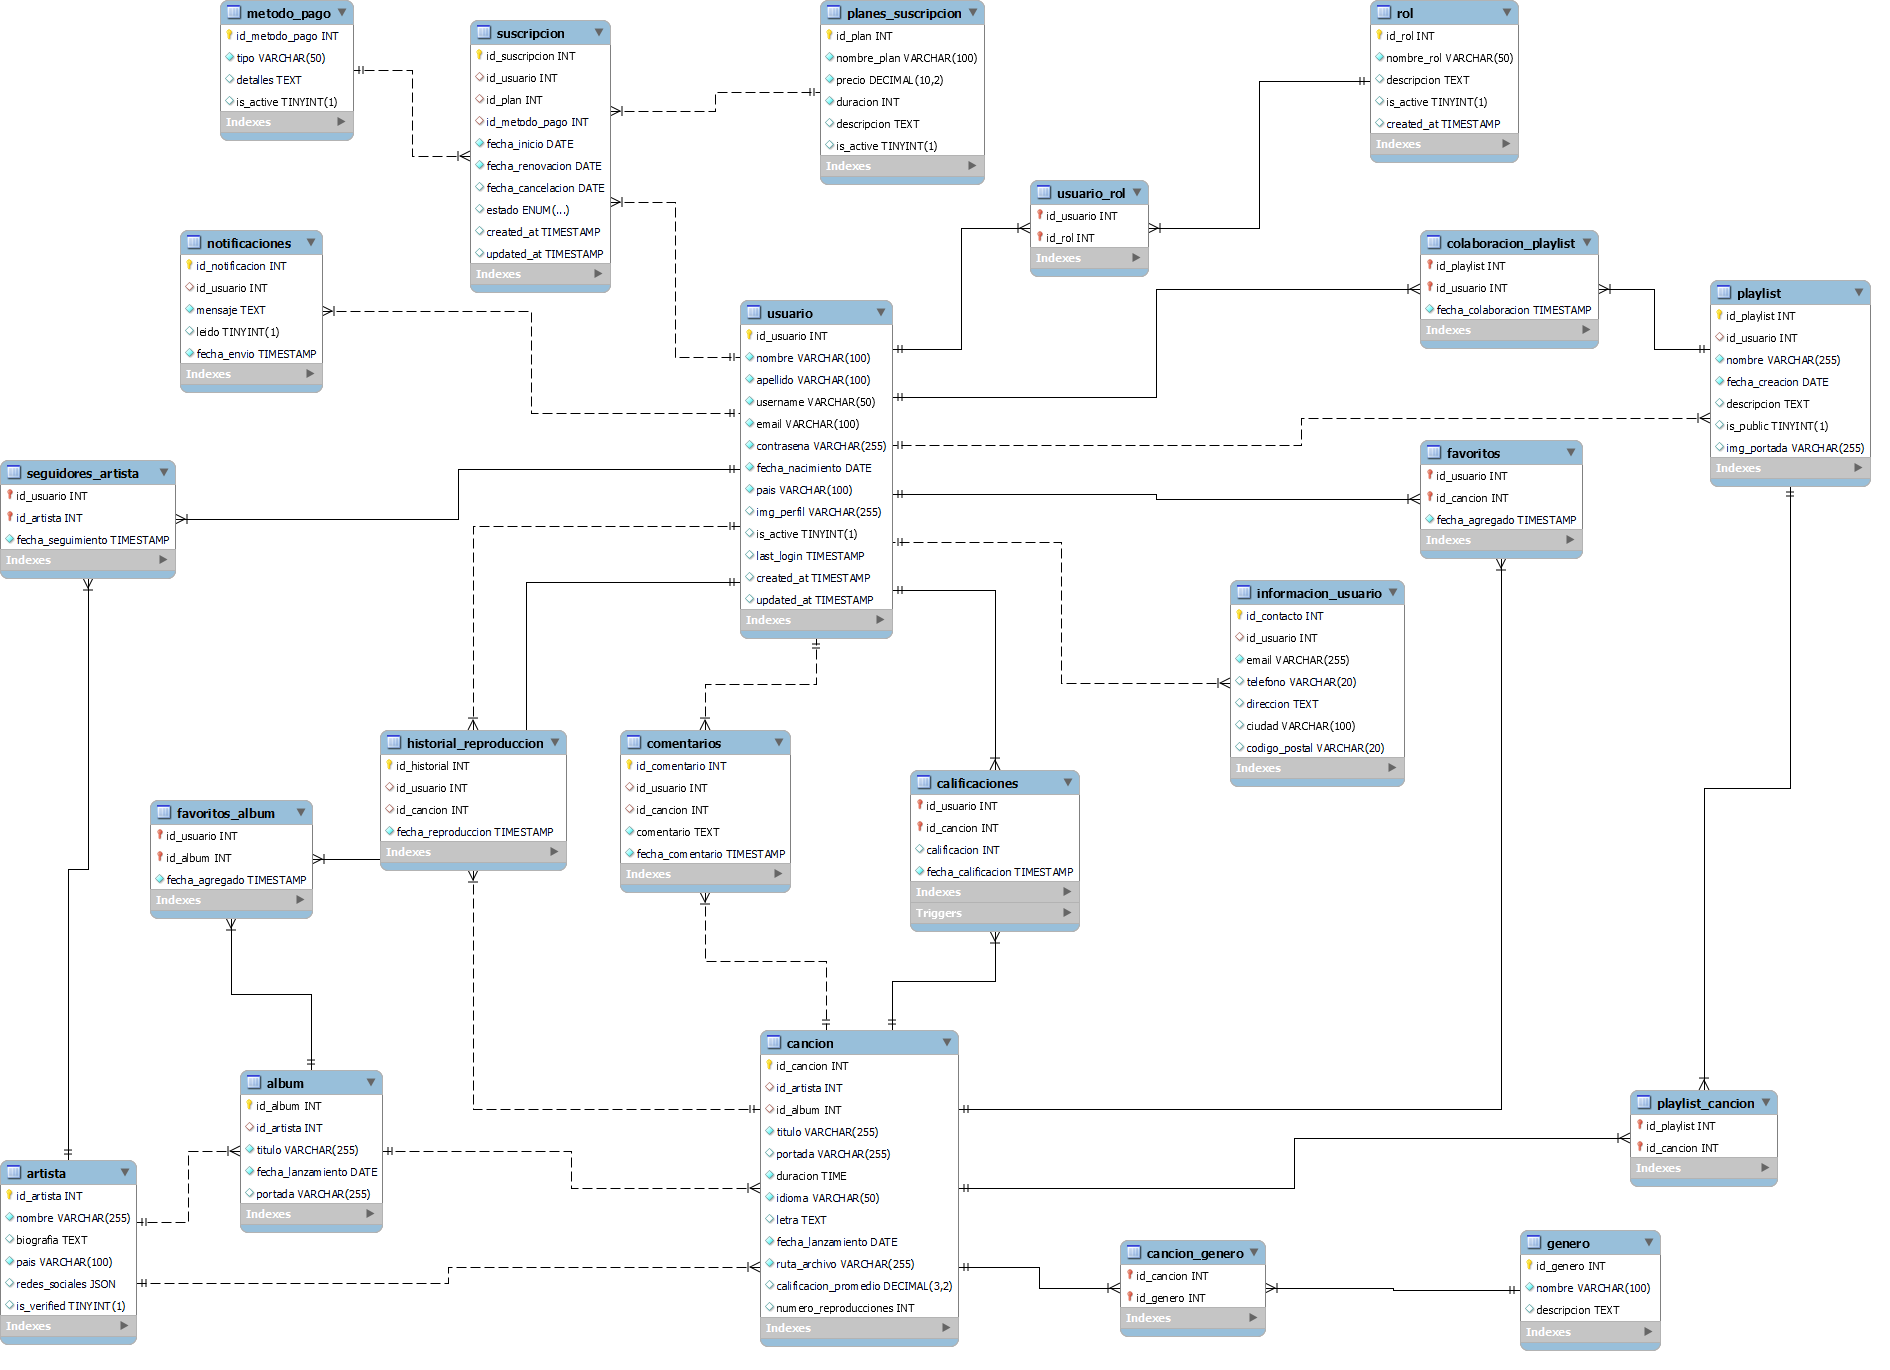
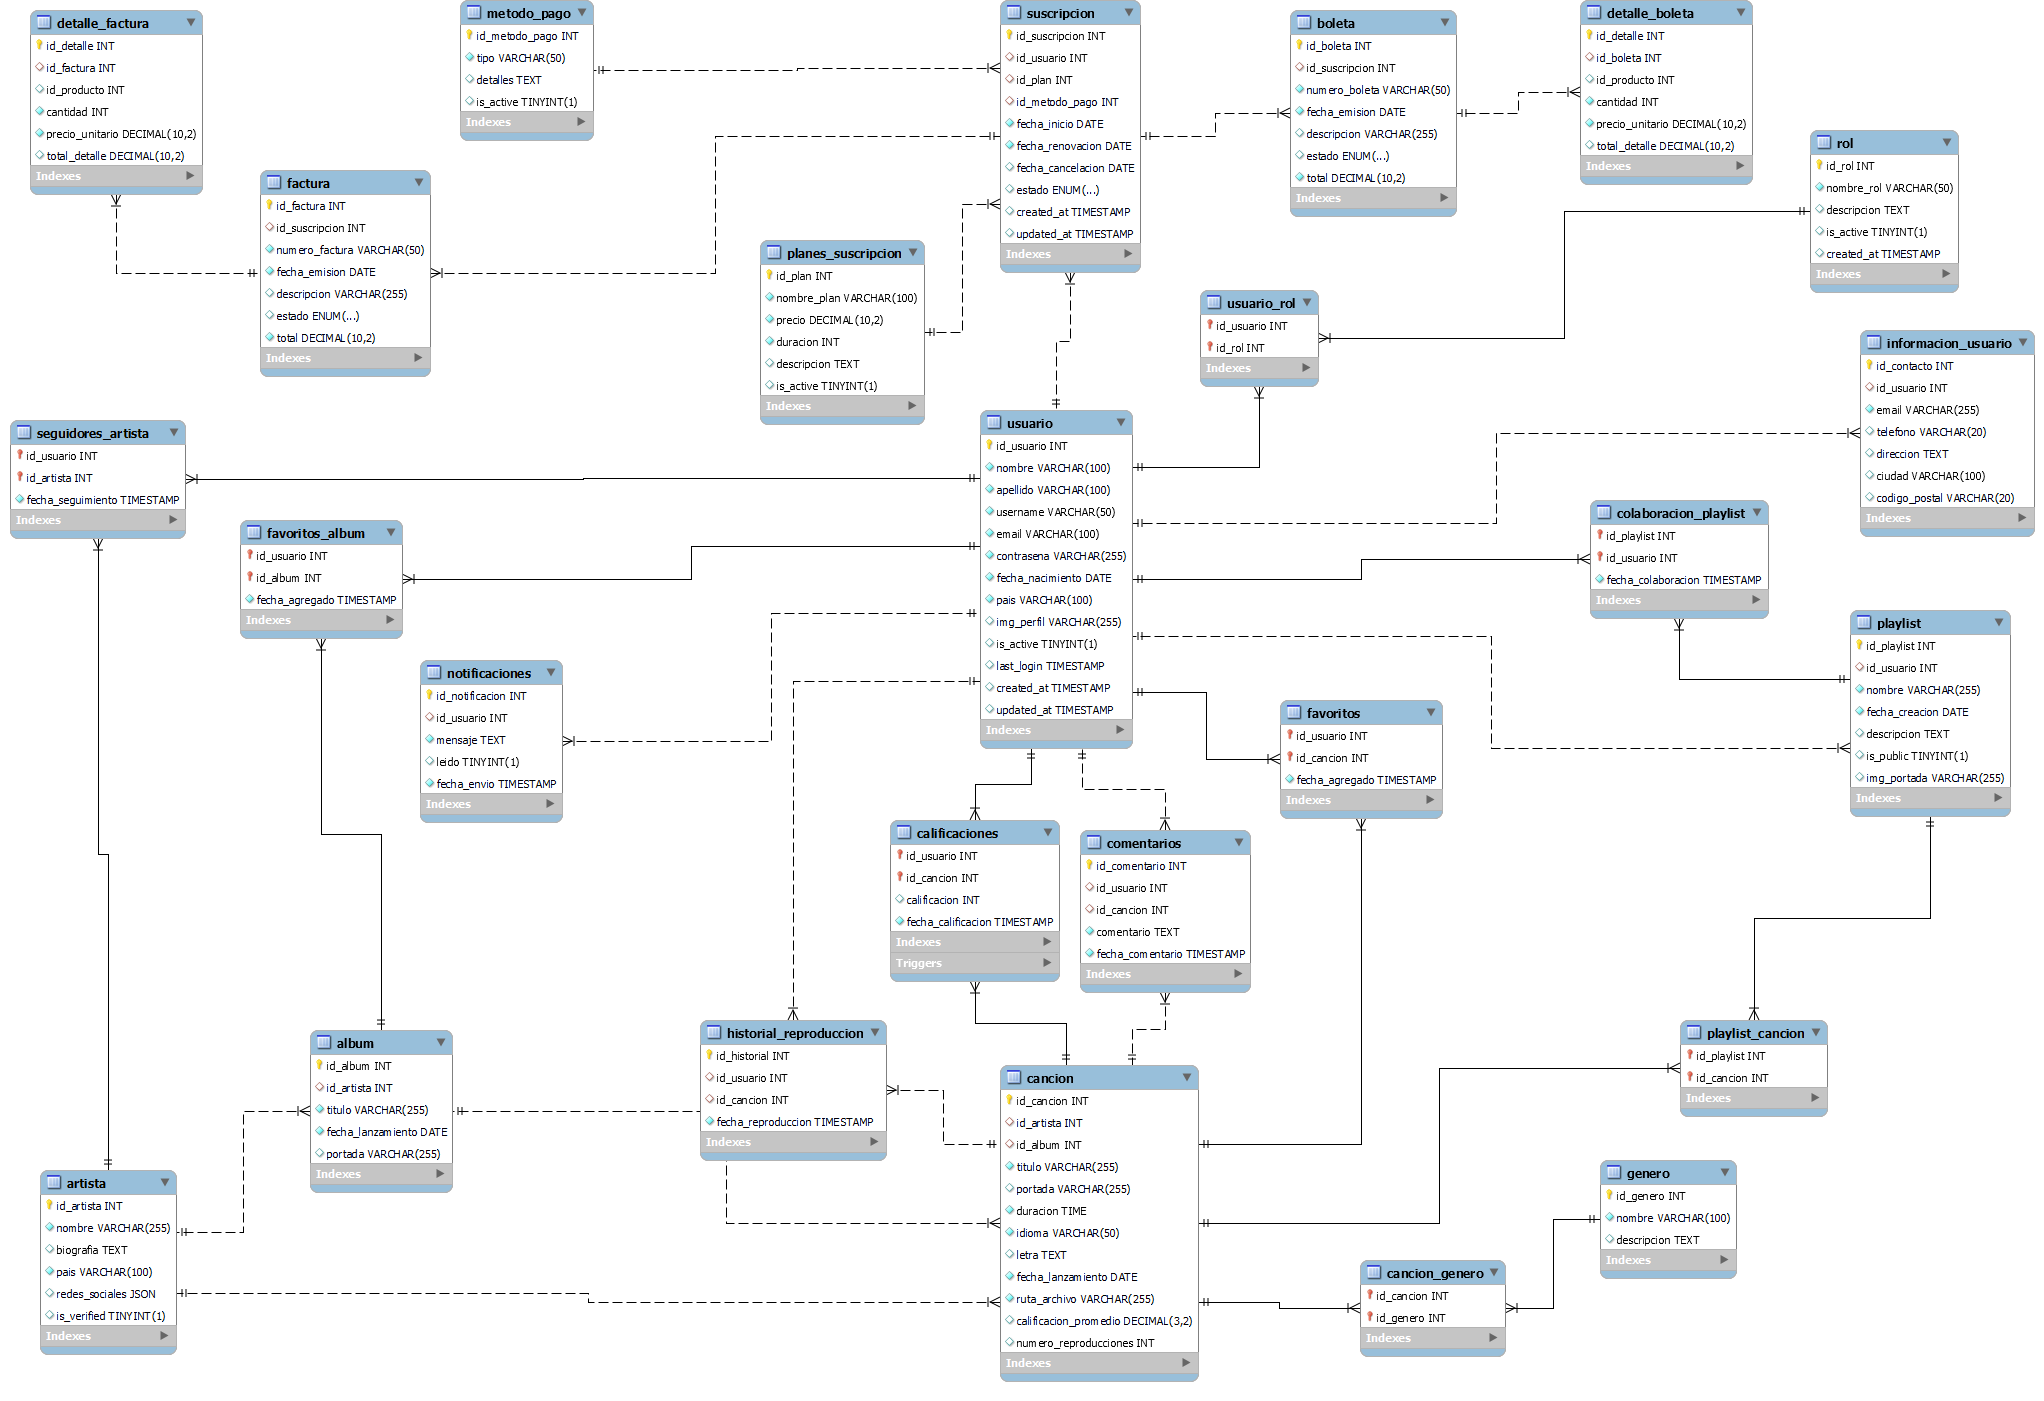
feat: Se añadio las tablas boleta y factura junto con sus entidades, repositorio y diagrama de entidad relacion actualizados (Issue #10)

diff --git a/src/main/java/com/euphony/streaming/entity/FacturaEntity.java b/src/main/java/com/euphony/streaming/entity/FacturaEntity.java
@@ -1,0 +1,56 @@
+package com.euphony.streaming.entity;
+
+
+import com.euphony.streaming.audit.BaseAudit;
+import jakarta.persistence.*;
+import lombok.Getter;
+import lombok.NoArgsConstructor;
+import lombok.Setter;
+
+import java.math.BigDecimal;
+import java.time.LocalDateTime;
+
+@Getter
+@Setter
+@NoArgsConstructor
+@Entity
+@Table(name = "FACTURA")
+public class FacturaEntity extends BaseAudit {
+
+    @Id
+    @GeneratedValue(strategy = GenerationType.IDENTITY)
+    @Column(name = "id_factura")
+    private Long idFactura;
+
+    @ManyToOne
+    @JoinColumn(name = "id_usuario", nullable = false)
+    private UsuarioEntity usuario;
+
+    @ManyToOne
+    @JoinColumn(name = "id_suscripcion", nullable = true)
+    private SuscripcionEntity suscripcion;
+
+    @ManyToOne
+    @JoinColumn(name = "id_metodo_pago", nullable = false)
+    private MetodoPagoEntity metodoPago;
+
+    @Column(name = "numero_factura", unique = true, nullable = false, length = 20)
+    private String numeroFactura;
+
+    @Column(name = "fecha_emision", nullable = false)
+    private LocalDateTime fechaEmision;
+
+    @Column(name = "monto_total", nullable = false)
+    private BigDecimal montoTotal;
+
+    @Column(name = "impuesto", nullable = false)
+    private BigDecimal impuesto;
+
+    @Enumerated(EnumType.STRING)
+    @Column(name = "estado", nullable = false)
+    private EstadoFactura estado = EstadoFactura.PENDIENTE;
+
+    public enum EstadoFactura {
+        PAGADA, PENDIENTE, ANULADA
+    }
+}

diff --git a/src/main/java/com/euphony/streaming/entity/BoletaEntity.java b/src/main/java/com/euphony/streaming/entity/BoletaEntity.java
@@ -1,0 +1,53 @@
+package com.euphony.streaming.entity;
+
+import com.euphony.streaming.audit.BaseAudit;
+import jakarta.persistence.*;
+import lombok.Getter;
+import lombok.NoArgsConstructor;
+import lombok.Setter;
+
+import java.math.BigDecimal;
+import java.time.LocalDate;
+import java.time.LocalDateTime;
+
+@Getter
+@Setter
+@NoArgsConstructor
+@Entity
+@Table(name = "BOLETA")
+public class BoletaEntity extends BaseAudit {
+
+    @Id
+    @GeneratedValue(strategy = GenerationType.IDENTITY)
+    @Column(name = "id_boleta")
+    private Long idBoleta;
+
+    @ManyToOne
+    @JoinColumn(name = "id_usuario", nullable = false)
+    private UsuarioEntity usuario;
+
+    @ManyToOne
+    @JoinColumn(name = "id_suscripcion", nullable = true)
+    private SuscripcionEntity suscripcion;
+
+    @ManyToOne
+    @JoinColumn(name = "id_metodo_pago", nullable = false)
+    private MetodoPagoEntity metodoPago;
+
+    @Column(name = "numero_boleta", unique = true, nullable = false, length = 20)
+    private String numeroBoleta;
+
+    @Column(name = "fecha_emision", nullable = false)
+    private LocalDateTime fechaEmision;
+
+    @Column(name = "monto_total", nullable = false)
+    private BigDecimal montoTotal;
+
+    @Enumerated(EnumType.STRING)
+    @Column(name = "estado", nullable = false)
+    private EstadoBoleta estado = EstadoBoleta.PENDIENTE;
+
+    public enum EstadoBoleta {
+        PAGADA, PENDIENTE, ANULADA
+    }
+}

diff --git a/src/main/java/com/euphony/streaming/entity/DetalleFacturaEntity.java b/src/main/java/com/euphony/streaming/entity/DetalleFacturaEntity.java
@@ -1,0 +1,37 @@
+package com.euphony.streaming.entity;
+
+import jakarta.persistence.*;
+import lombok.Getter;
+import lombok.NoArgsConstructor;
+import lombok.Setter;
+
+import java.math.BigDecimal;
+
+@Getter
+@Setter
+@NoArgsConstructor
+@Entity
+@Table(name = "DETALLE_FACTURA")
+public class DetalleFacturaEntity {
+
+    @Id
+    @GeneratedValue(strategy = GenerationType.IDENTITY)
+    @Column(name = "id_detalle_factura")
+    private Long idDetalleFactura;
+
+    @ManyToOne
+    @JoinColumn(name = "id_factura", nullable = false)
+    private FacturaEntity factura;
+
+    @Column(name = "descripcion", nullable = false, length = 255)
+    private String descripcion;
+
+    @Column(name = "cantidad", nullable = false)
+    private int cantidad;
+
+    @Column(name = "precio_unitario", nullable = false)
+    private BigDecimal precioUnitario;
+
+    @Column(name = "subtotal", nullable = false)
+    private BigDecimal subtotal;
+}

diff --git a/src/main/java/com/euphony/streaming/entity/DetalleBoletaEntity.java b/src/main/java/com/euphony/streaming/entity/DetalleBoletaEntity.java
@@ -1,0 +1,37 @@
+package com.euphony.streaming.entity;
+
+import jakarta.persistence.*;
+import lombok.Getter;
+import lombok.NoArgsConstructor;
+import lombok.Setter;
+
+import java.math.BigDecimal;
+
+@Getter
+@Setter
+@NoArgsConstructor
+@Entity
+@Table(name = "DETALLE_BOLETA")
+public class DetalleBoletaEntity {
+
+    @Id
+    @GeneratedValue(strategy = GenerationType.IDENTITY)
+    @Column(name = "id_detalle_boleta")
+    private Long idDetalleBoleta;
+
+    @ManyToOne
+    @JoinColumn(name = "id_boleta", nullable = false)
+    private BoletaEntity boleta;
+
+    @Column(name = "descripcion", nullable = false, length = 255)
+    private String descripcion;
+
+    @Column(name = "cantidad", nullable = false)
+    private int cantidad;
+
+    @Column(name = "precio_unitario", nullable = false)
+    private BigDecimal precioUnitario;
+
+    @Column(name = "subtotal", nullable = false)
+    private BigDecimal subtotal;
+}

diff --git a/src/main/java/com/euphony/streaming/repository/DetalleFacturaRepository.java b/src/main/java/com/euphony/streaming/repository/DetalleFacturaRepository.java
@@ -1,0 +1,7 @@
+package com.euphony.streaming.repository;
+
+import com.euphony.streaming.entity.DetalleFacturaEntity;
+import org.springframework.data.jpa.repository.JpaRepository;
+
+public interface DetalleFacturaRepository extends JpaRepository<DetalleFacturaEntity, Long> {
+}

diff --git a/src/main/java/com/euphony/streaming/repository/DetalleBoletaRepository.java b/src/main/java/com/euphony/streaming/repository/DetalleBoletaRepository.java
@@ -1,0 +1,7 @@
+package com.euphony.streaming.repository;
+
+import com.euphony.streaming.entity.DetalleBoletaEntity;
+import org.springframework.data.jpa.repository.JpaRepository;
+
+public interface DetalleBoletaRepository extends JpaRepository<DetalleBoletaEntity, Long> {
+}

diff --git a/src/main/java/com/euphony/streaming/repository/FacturaRepository.java b/src/main/java/com/euphony/streaming/repository/FacturaRepository.java
@@ -1,0 +1,7 @@
+package com.euphony.streaming.repository;
+
+import com.euphony.streaming.entity.FacturaEntity;
+import org.springframework.data.jpa.repository.JpaRepository;
+
+public interface FacturaRepository extends JpaRepository<FacturaEntity, Long> {
+}

diff --git a/src/main/java/com/euphony/streaming/repository/BoletaRepository.java b/src/main/java/com/euphony/streaming/repository/BoletaRepository.java
@@ -1,0 +1,7 @@
+package com.euphony.streaming.repository;
+
+import com.euphony.streaming.entity.BoletaEntity;
+import org.springframework.data.jpa.repository.JpaRepository;
+
+public interface BoletaRepository extends JpaRepository<BoletaEntity, Long> {
+}
